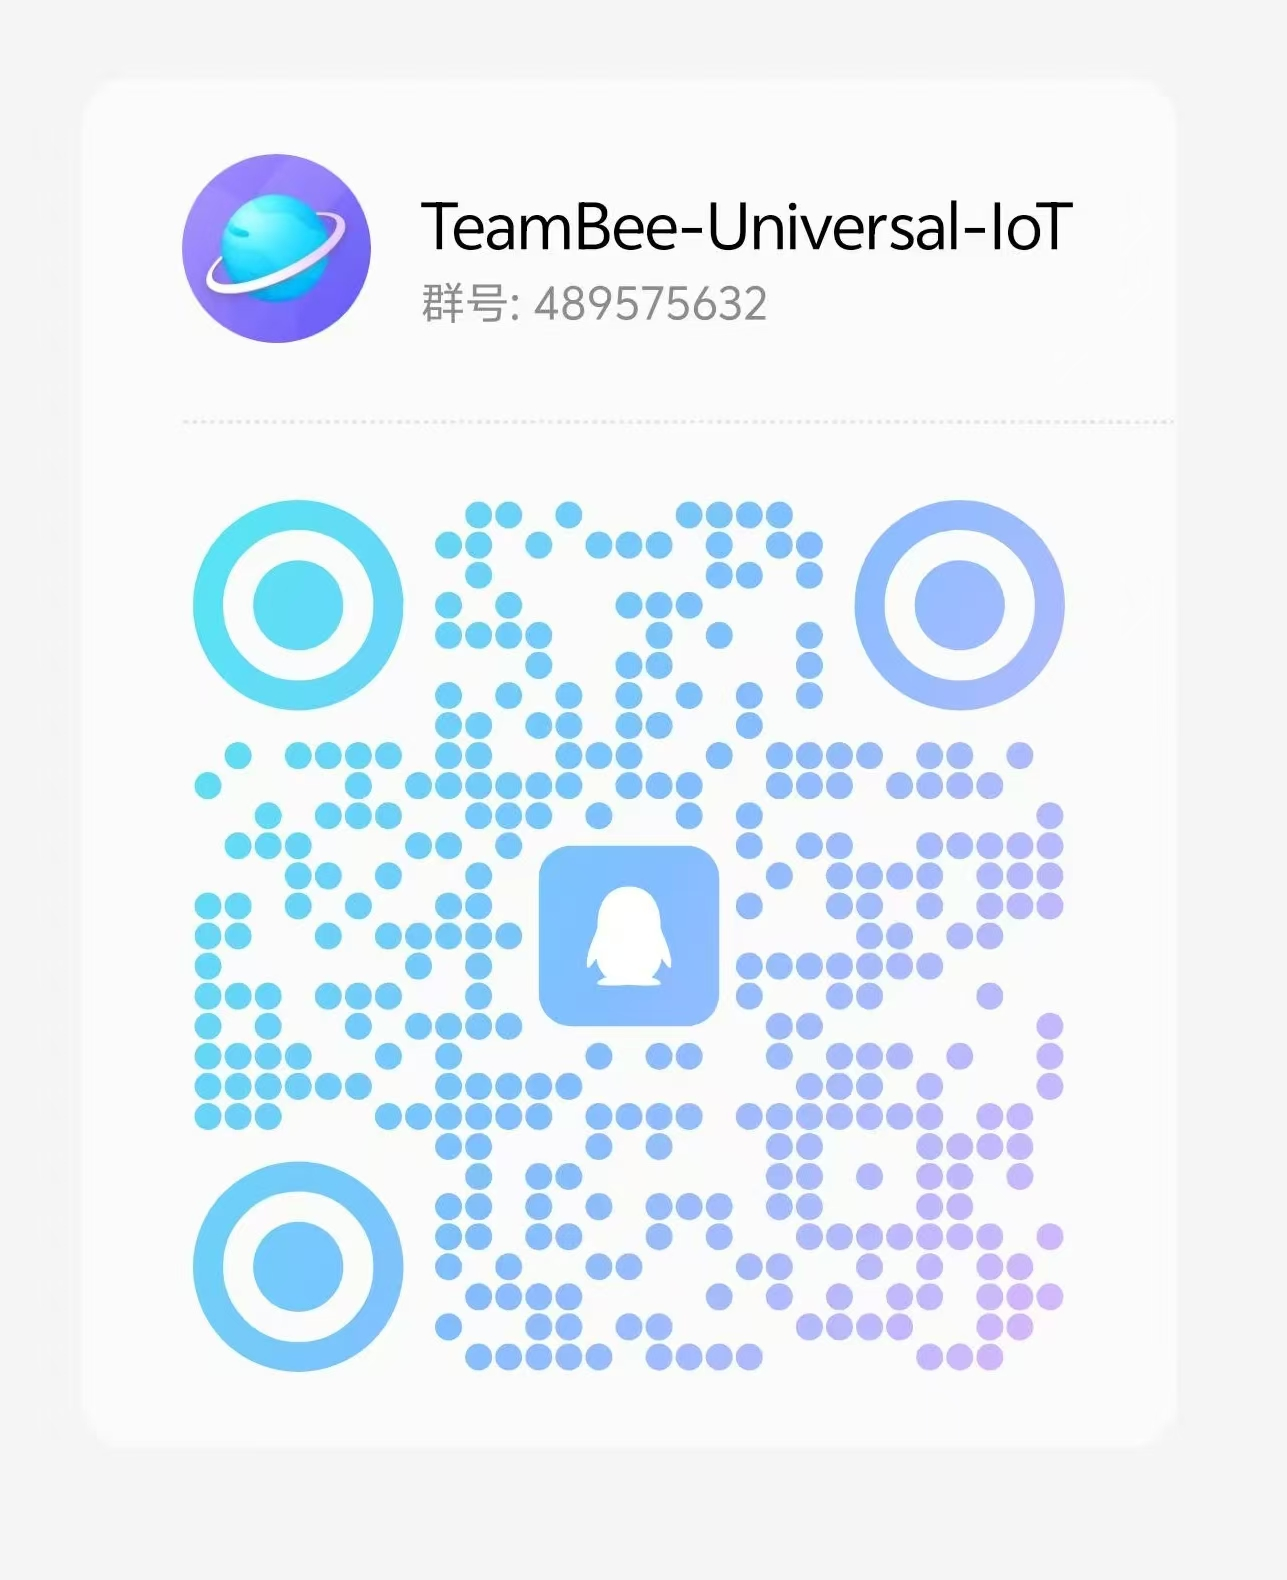
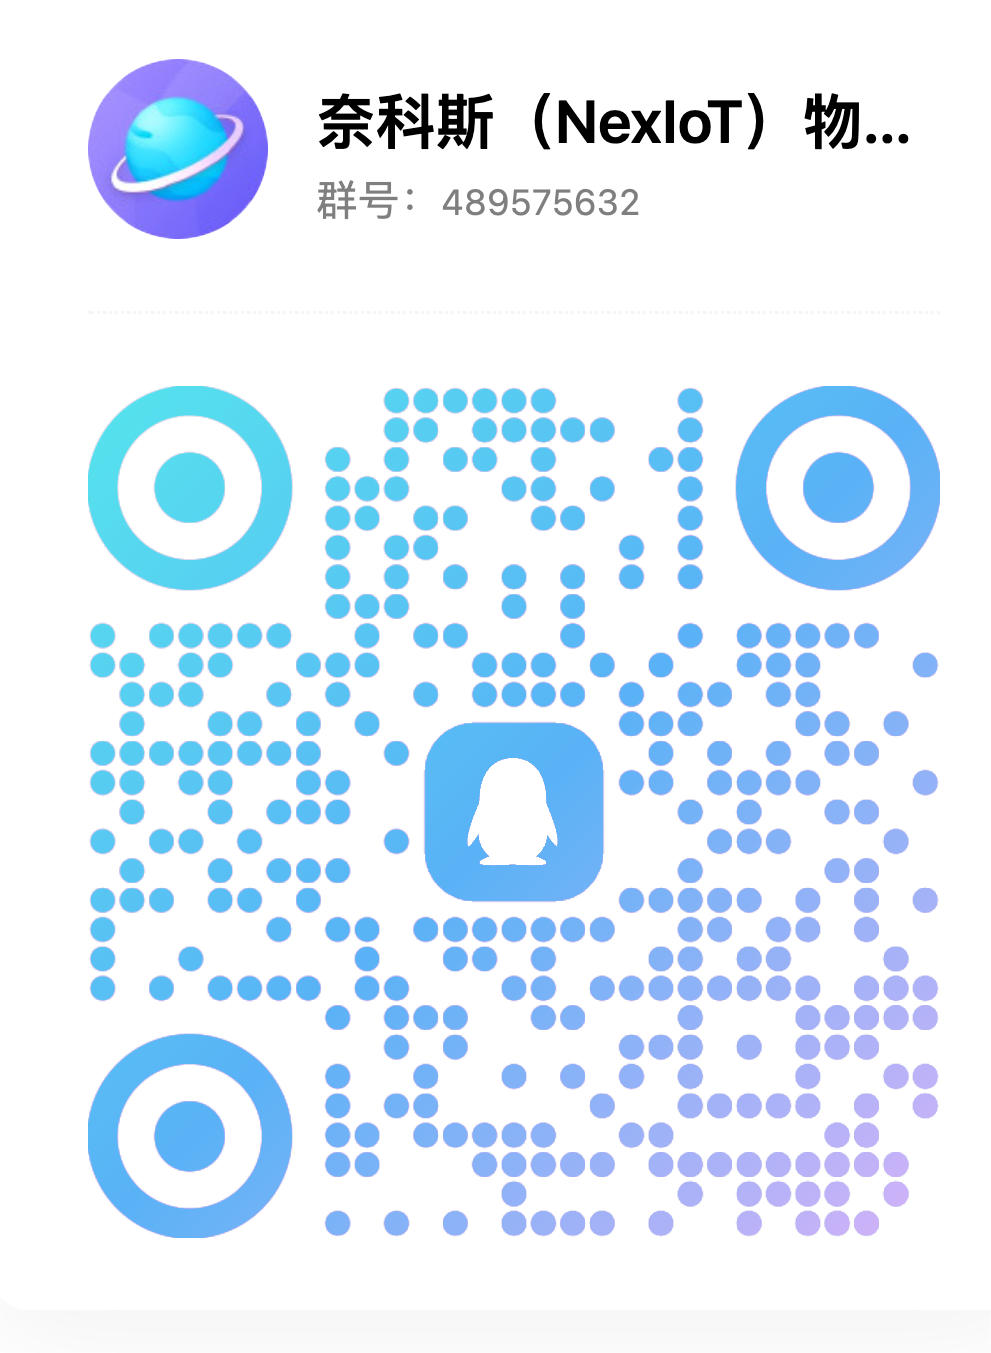
fix：裁剪图片变小

diff --git a/README.md b/README.md
@@ -319,9 +319,9 @@ cd cn-universal-web & ./bin/restart.sh
 有任何问题加入QQ群
 
 
-|                            |                            |
-|----------------------------|----------------------------|
-| ![QQ群](/__MACOSX/shot/qq.jpg) | ![微信群](/__MACOSX/shot/wx.png) |
+|                               |                            |
+|-------------------------------|----------------------------|
+| ![QQ群](/__MACOSX/shot/qq.png) | ![微信群](/__MACOSX/shot/wx.png) |
 
 ## 📄 开源协议
 
